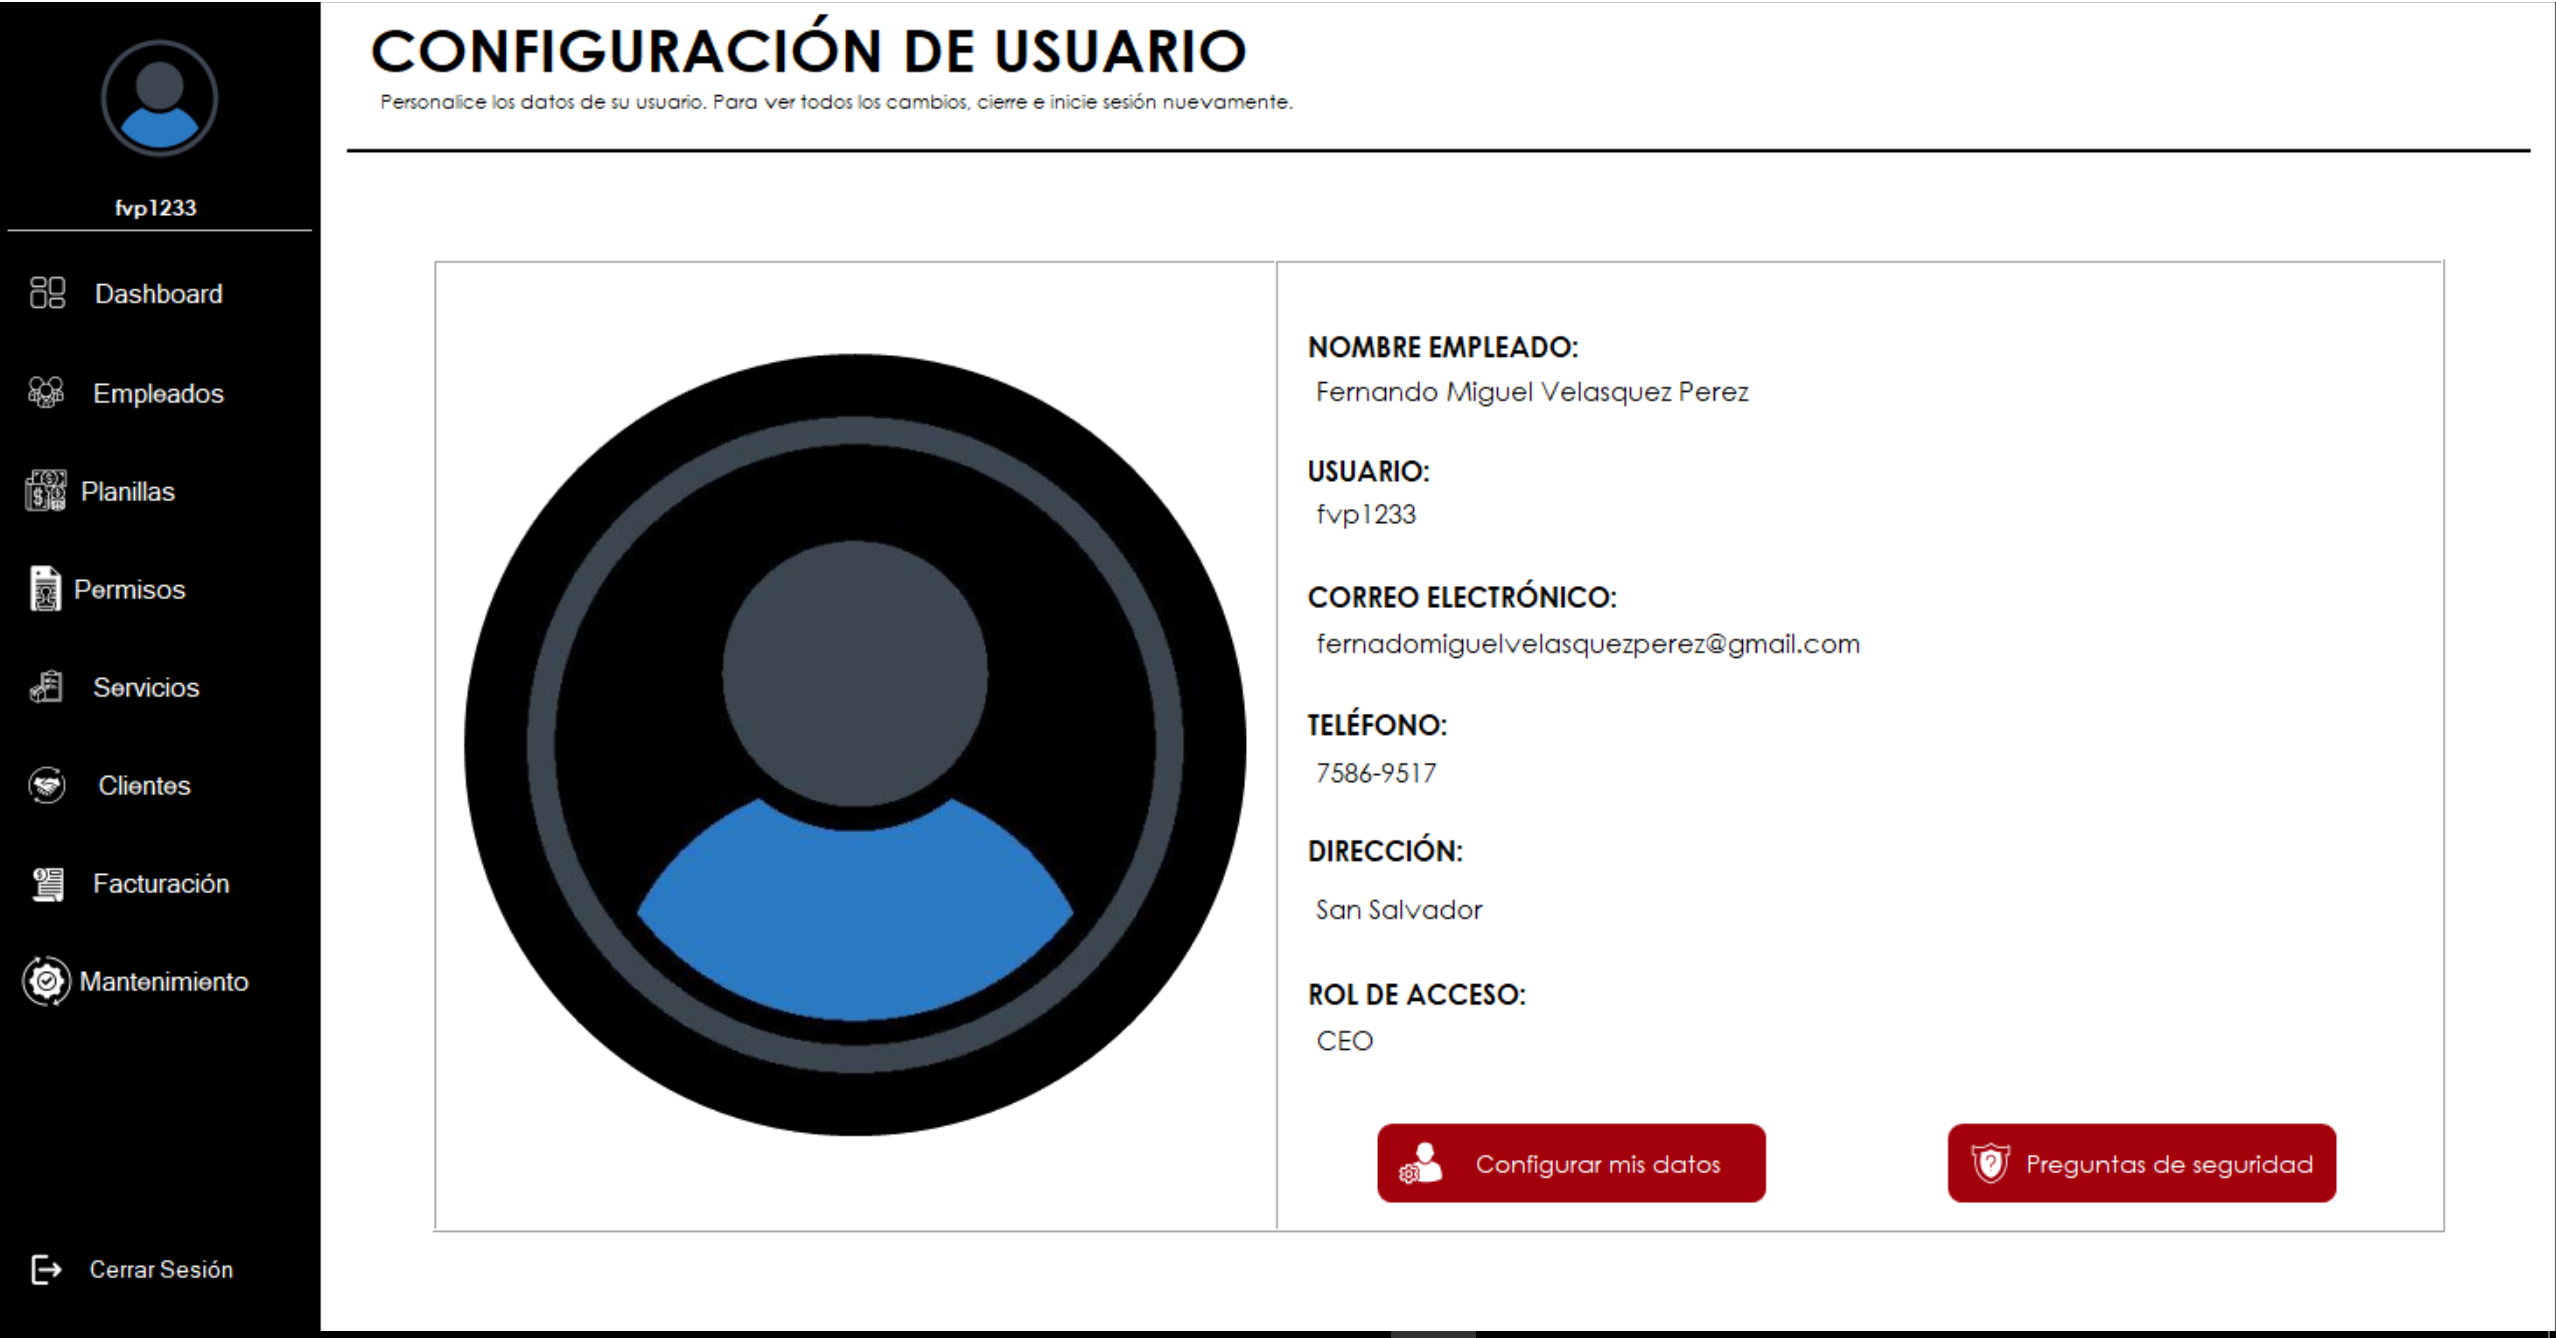
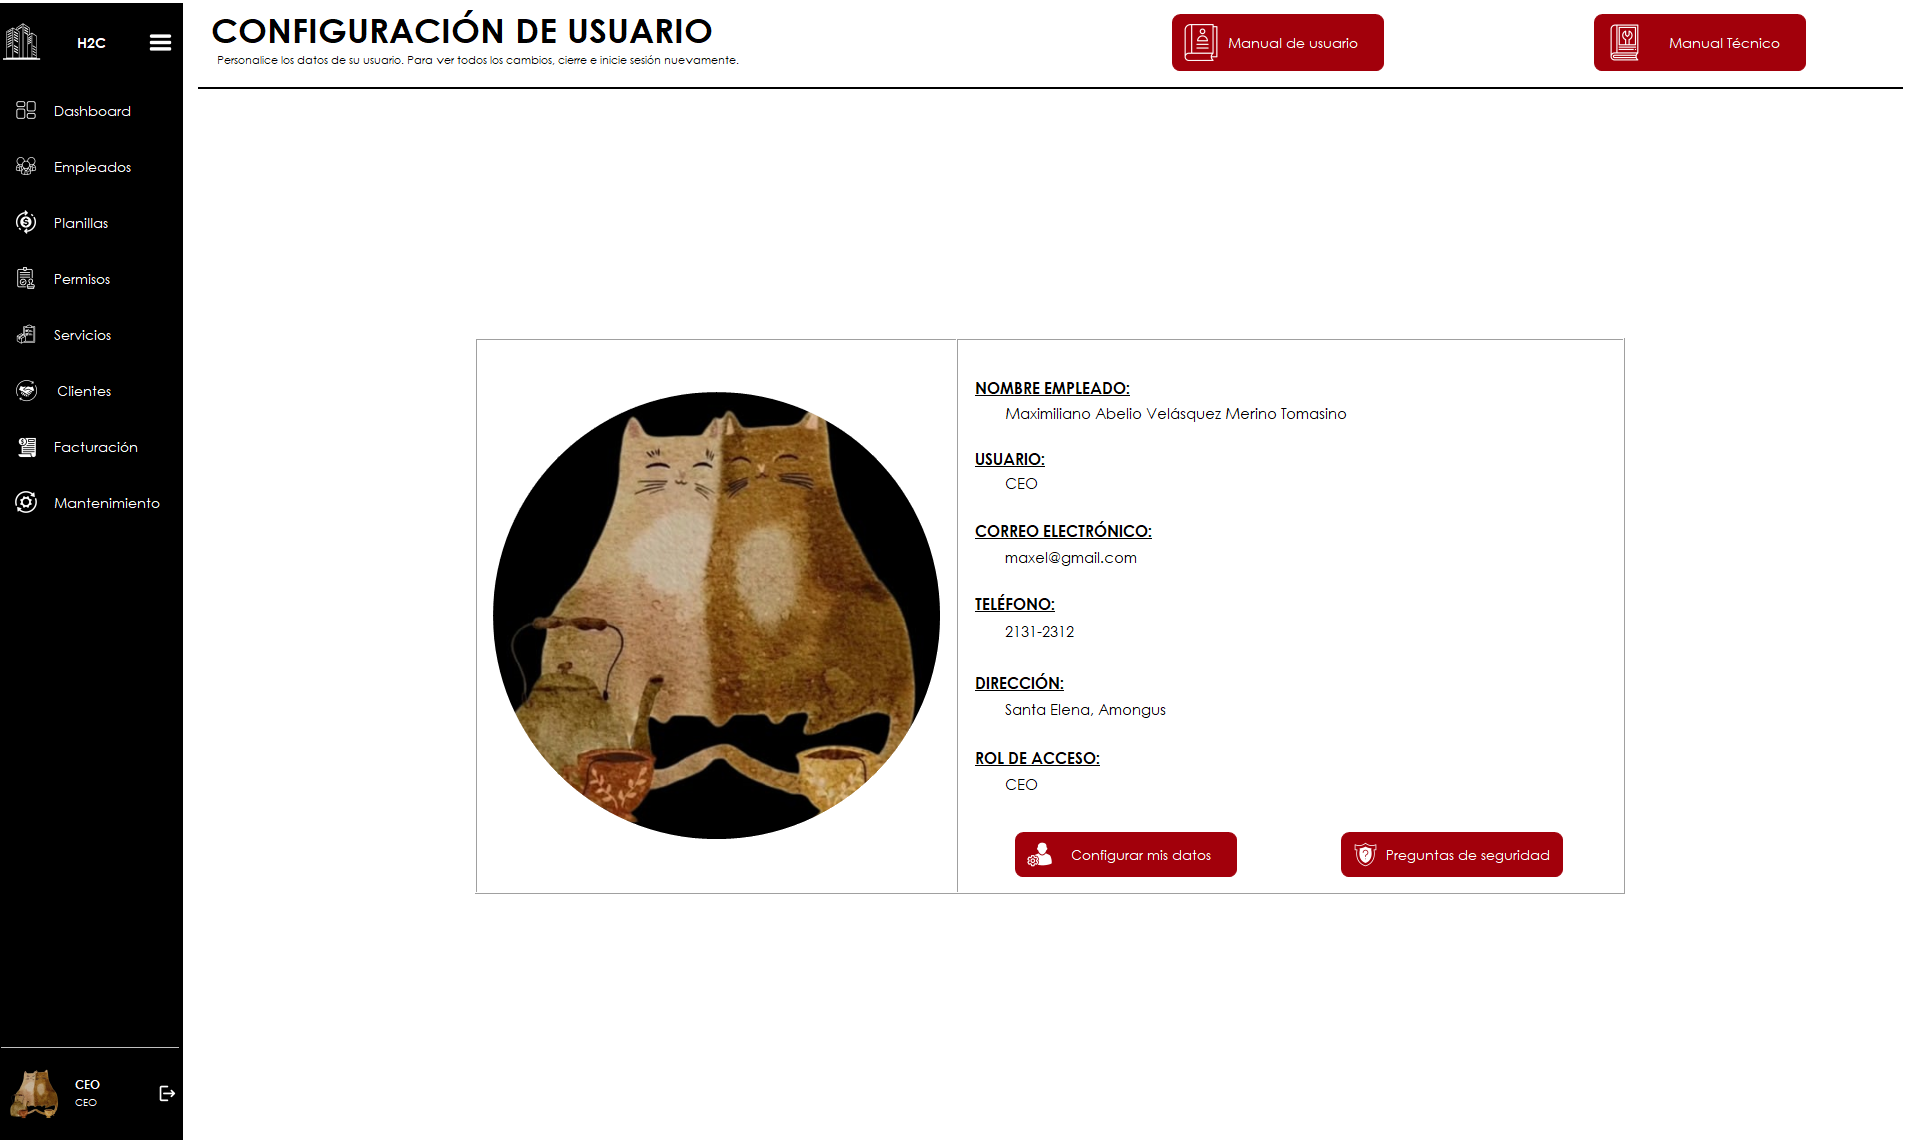
Se ha actualizado informacion en funciones del sistema

diff --git a/Funcionamiento.html b/Funcionamiento.html
@@ -68,7 +68,7 @@
             <section class="section payrolls-section">
                 <h2 id="Planillas">Dashboard</h2>
                 <div class="container-img">
-                    <img src="img/dashboardH2C.png" alt="planillas progama">
+                    <img src="img/dashboard.png" alt="planillas progama">
                 </div>
                 <div class="body-section">
                     <p>¿Te abruma tanta información? Te presentamos un panel de control o dashboard, herramienta visual que presenta información clave y concisa del sistema. Sección que incluye gráficas, datos importantes de la empresa y más. </p>
@@ -76,12 +76,12 @@
                         <ul>
                             <li>Número de empleados</li>
                             <li>Facturas existentes</li>
-                            <li>Servicios registrados</li>
+                            <li>Acciones realizadas</li>
                             <li>Clientes activos</li>
                             <li>Ingreso monetario de la empresa</li>
                             <li>Pagos de facturas de la empresa</li>
                         </ul>
-                         <p>El primer panel recopila la información de el número de empleados, número de facturas, número de servicios, la cantidad actual de clientes, el ingreso total que ha percibido la empresa con el sistema en uso y un una tabla con todas las facturas que presenta la base de datos. </p>
+                         <p>El primer panel recopila la información de el número de empleados, número de facturas, número de servicios, la cantidad actual de clientes, el ingreso total que ha percibido la empresa con el sistema en uso y un una tabla con todas las acciones que han afectado al sistema en su base de datos. </p>
                         <p>
                         El segundo panel es una gráfica sobre el flujo monetario de la empresa, parte la cual presenta la ganancia de la empresa y los pagos que debe realizar, con esta sección podemos ver que tan bien nos va económicamente en nuestro negocio, alertandonos de deudas y pérdidas de dinero.
                     </p>
@@ -156,6 +156,53 @@
                     <img src="img/permisos.png" alt="planillas progama">
                 </div>
                 <div class="body-section">
+                    <p>Un empleado de toda empresa puede ser participe de un inconveniente, accidente o situación complicada de salud, somos conscientes de esto, por ese motivo existe permisos, parte la cual permite llevar un control más específico de las ausencias justificadas de un empleado como lo puede ser la maternidad o una incapacidad</p>
+                    <p>Podemos añadir un permiso únicamente conociendo el código del empleado y será necesario llenar los campos requeridos, al añadir un permiso vemos la opción de si el servicio esta en proceso o ya finalizó, permisos cuenta con la cualidad de actualizar la información de modo que los permisos sean justificados o finalmente pueda ser mostrado el estado en el que esta.
+                        <br>
+                        Esta sección cuenta con las funciones de:
+                    </p>
+                </div>
+                <ul>
+                    <li>Añadir un permiso</li>
+                    <li>Actualizar un permiso</li>
+                    <li>Eliminar un permiso</li>
+                    <li>Filtrar un permiso</li>
+                </ul>
+                <p>El datagridview mostrará con detalle cada empleado que posea un permiso, sea el estado en el que se encuentre.</p>
+            </section>
+            <section class="section services-section"></section>
+                <h2 id="Servicios">Servicios</h2>
+                <div class="container-img">
+                    <img src="img/servicios_actualizados.png" alt="planillas progama">
+                </div>
+                <div class="body-section">
+                    <p>El apartado de servicios es un poco más sencillo que las demás secciones ya que tiene pocos
+                        campos por llenar; Podemos añadir, eliminar y actualizar un servicio, tal como lo necesitemos</p>
+                    <p>Se nos pedirá el nombre del servicio, su descripción y su precio para poder añadirlo, igualmente
+                        el actualizar solo posee estos campos aunque también posee un tipo de servicio, para poder
+                        eliminar o actualizar un servicio debemos de dar click derecho en la fila deseada, mostrando
+                        estas opciones. También cuenta con filtrado a través del tipo de servicio o si lo desea buscar
+                        directamente en la barra de busqueda.
+                        <br>
+                        El apartado de clientes cuenta con:
+                    </p>
+                </div>
+                <ul>
+                    <li>Añadir un servicio</li>
+                    <li>Actualizar un servicio</li>
+                    <li>Eliminar un servicio</li>
+                    <li>Filtrar un servicio</li>
+                </ul>
+                <p>Todo esto será mostrado en formato de tabla a través de un datagridview el cual captura la
+                    información de cada servicio existente.</p>
+            </section>
+
+            <section class="section customers-section">
+                <h2 id="Clientes">Clientes</h2>
+                <div class="container-img">
+                    <img src="img/clientes_actualizado.png" alt="planillas progama">
+                </div>
+                <div class="body-section">
                     <p>En esta sección podrás añadir a todos los clientes que tengas, el apartado de clientes permite
                         añadir un cliente con toda su información necesaria, en caso se necesite se puede actualizar
                         dicha información y se puede eliminar un cliente en caso sea deseado.</p>
@@ -179,7 +226,7 @@
             <section class="section bills-section">
                 <h2 id="Facturas">Facturas</h2>
                 <div class="container-img">
-                    <img src="img/Facturas H2C.png" alt="planillas progama">
+                    <img src="img/facturas_actualizadas.png" alt="planillas progama">
                 </div>
                 <div class="body-section">
                     <p>En esta sección se verán todo en relación a facturas, al momento de tener un sistema de este tipo
@@ -203,61 +250,26 @@
                     información de cada factura existente.</p>
             </section>
 
-            <section class="section customers-section">
-                <h2 id="Clientes">Clientes</h2>
+            <section class="section mantenimientos-section"></section>
+                <h2 id="Mantenimientos">Mantenimientos</h2>
                 <div class="container-img">
-                    <img src="img/Clientes H2C.png" alt="planillas progama">
+                    <img src="img/mantenimientos_actualizado.png" alt="planillas progama">
                 </div>
                 <div class="body-section">
-                    <p>En esta sección podrás añadir a todos los clientes que tengas, el apartado de clientes permite
-                        añadir un cliente con toda su información necesaria, en caso se necesite se puede actualizar
-                        dicha información y se puede eliminar un cliente en caso sea deseado.</p>
-                    <p>Para poder actualizar u eliminar un cliente se debe de dar click derecho a la fila deseada, aquí se
-                        mostrarán las opciones dichas anteriormente, además este apartado cuenta con una filtración de
-                        clientes mediante su tipo, o pueden ser buscados directamente en la barra de busqueda.
-                        <br>
-                        Esta sección cuenta con las funciones de:
-                    </p>
-                </div>
-                <ul>
-                    <li>Añadir un cliente</li>
-                    <li>Actualizar un cliente</li>
-                    <li>Eliminar un cliente</li>
-                    <li>Filtrar un cliente</li>
-                </ul>
-                <p>Todo esto será mostrado en formato de tabla a través de un datagridview el cual captura la
-                    información de cada cliente existente.</p>
-            </section>
+                    <p>El apartado de mantenimientos surge en necesidad a futuro, ya sea que se ingresen nuevas
+                        entidades como lo pueden ser bancos, ingresarlo de manera manual no es óptimo. Mantenimientos
+                        soluciona esta problemática pudiendo añadir lo que se logra observar en la imagen. </p>
+                    <p>Otro punto clave es la configuración del servidor y del negocio, cuando se presione pedirá las credenciales del
+                        usuario con nivel CEO quien es el único que podra acceder a esta parte, aqui podra hacer un
+                        cambio a la base en caso se cambie de servidor o lo que la situación amerite un cambio de
+                        servidor.
 
+                </div>
+            </section>
 
             
             
-            <section class="section services-section">
-                <h2 id="Servicios">Servicios</h2>
-                <div class="container-img">
-                    <img src="img/Servicios H2C.png" alt="planillas progama">
-                </div>
-                <div class="body-section">
-                    <p>El apartado de servicios es un poco más sencillo que las demás secciones ya que tiene pocos
-                        campos por llenar; Podemos añadir, eliminar y actualizar un servicio, tal como lo necesitemos</p>
-                    <p>Se nos pedirá el nombre del servicio, su descripción y su precio para poder añadirlo, igualmente
-                        el actualizar solo posee estos campos aunque también posee un tipo de servicio, para poder
-                        eliminar o actualizar un servicio debemos de dar click derecho en la fila deseada, mostrando
-                        estas opciones. También cuenta con filtrado a través del tipo de servicio o si lo desea buscar
-                        directamente en la barra de busqueda.
-                        <br>
-                        El apartado de clientes cuenta con:
-                    </p>
-                </div>
-                <ul>
-                    <li>Añadir un servicio</li>
-                    <li>Actualizar un servicio</li>
-                    <li>Eliminar un servicio</li>
-                    <li>Filtrar un servicio</li>
-                </ul>
-                <p>Todo esto será mostrado en formato de tabla a través de un datagridview el cual captura la
-                    información de cada servicio existente.</p>
-            </section>
+            
             <section class="section configUsuarios-section">
                 <h2 id="Configuracion">Configuración de Usuarios</h2>
                 <div class="container-img">
@@ -269,26 +281,11 @@
                     <p>La configuración de usuario sirve para poder colocar la información de nuestro usuario, aquí
                         podemos buscar algo en específico de nosotros, podemos actualizar la información ya existente y
                         también importante recalcar en esta sección podemos configurar las preguntas de seguridad para
-                        un método de recuperación de contraseña.
+                         métodos de recuperación de contraseña además de contar con los manuales respectivos del sistema en pdf.
 
                 </div>
             </section>
-            <section class="section mantenimientos-section">
-                <h2 id="Mantenimientos">Mantenimientos</h2>
-                <div class="container-img">
-                    <img src="img/Mantenimientos.png" alt="planillas progama">
-                </div>
-                <div class="body-section">
-                    <p>El apartado de mantenimientos surge en necesidad a futuro, ya sea que se ingresen nuevas
-                        entidades como lo pueden ser bancos, ingresarlo de manera manual no es óptimo.Mantenimientos
-                        soluciona esta problemática pudiendo añadir lo que se logra observar en la imagen. </p>
-                    <p>Otro punto clave es la configuración del servidor, cuando se presiona pedirá las credenciales del
-                        usuario con nivel CEO quien es el único que podra acceder a esta parte, aqui podra hacer un
-                        cambio a la base en caso se cambie de servidor o lo que la situación amerite un cambio de
-                        servidor.
-
-                </div>
-            </section>
+            
             <section class="section nivelesDeAcceso-section">
                 <h2 id="Niveles">Niveles de Usuarios</h2>
                 <div class="body-section">
